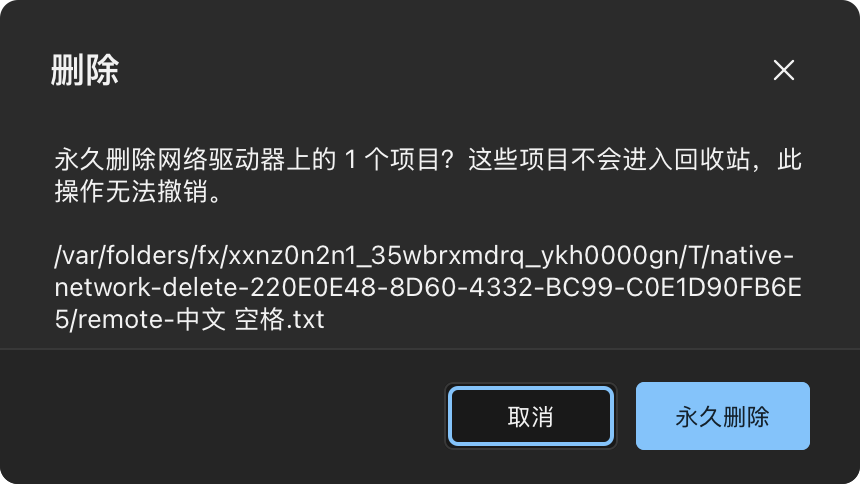
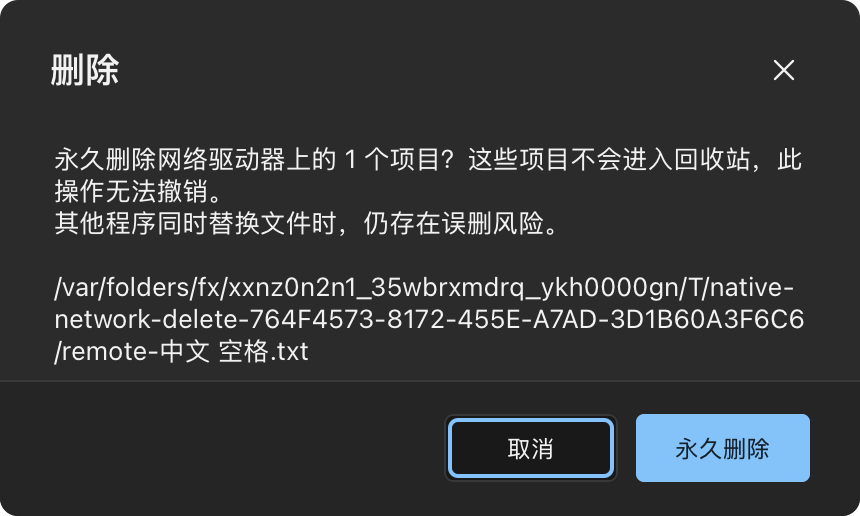
docs(network): document deletion limits and residual race

diff --git a/docs/NETWORK_DELETION_SAFETY.md b/docs/NETWORK_DELETION_SAFETY.md
@@ -1,0 +1,48 @@
+# 网络删除安全修复与边界
+
+日期：2026-10-25。针对 PR #30 的 `a1d4e04` 后续修复。所有测试只使用本地临时夹具，不操作真实 NAS。
+
+## 已实现的保护
+
+- 删除入口对全部条目先准备，再展示确认或调用回收站。父目录使用 `realpath` 解析后打开 FD，最终条目使用 `fstatat(..., AT_SYMLINK_NOFOLLOW)`；分类来自实际父目录 FD 的文件系统标志。缓存挂载路径匹配仅作菜单提示，不能决定操作。
+- 分类或准备失败时整个批次停止，不把未知状态当作本地回收。普通本地条目也绑定父目录、条目和 FSID，系统回收调用前再次复核，传入已解析父目录下的实际路径。
+- `lstat`、`openat`、`fstat`、`fstatfs`、目录枚举和 `unlinkat` 的原始错误保留在错误链中；只有实际身份、清单或挂载不一致使用 `ESTALE`。未知准备失败不再按本地路径猜测隐私授权。
+- 网络清单记录名称、身份、mode、size、mtime/ctime 等元数据；先完整复核清单，再执行第一次删除。确认后已新增、替换或修改的节点会导致停止。执行仅遍历确认过的名称；执行期间新增的条目不被纳入删除，目录保留并报告部分失败。
+- 失败返回已成功 `unlinkat` 的条目数和根条目是否删除。零变更失败保留 redo；真实永久删除（包括删除子项后失败）清空 redo。只消费实际移除根条目的选择及剪贴板记录。
+- 不跟随最终符号链接，不跨不同设备/FSID 的子挂载，不 chmod、强制重试、生成备份或临时隔离目录。权限变化只由临时夹具用于故障注入。
+
+## 资源和性能
+
+- 每批最多 64 个顶层条目；整个准备批次最多 50,000 个清单节点和 16 MiB 累计路径 UTF-8 字节，最大递归深度 128。
+- 准备、完整复核和执行各受合作式 60 秒预算及任务取消检查约束。预算不能中断已经阻塞在内核/服务器中的单次系统调用，不承诺硬超时。
+- 超限明确停止，不退化为无清单递归。准备和预检超限不会先删除文件；执行阶段的失败会报告已完成数量。
+- 清单只读取元数据，不读取/哈希文件内容。每个目录作固定次数的成员读取，不在每个子项删除前反复全量枚举同一大目录。FD 在失败时释放并设置 close-on-exec；深度与批次限制也用于约束 FD 数量。
+
+## 验证接口
+
+普通构建没有可注入网络分类器的构造器、`PreparedDeletion.fixtures` 或 `auditHook`。只有 `build.py --validation` 及网络核心夹具启用 `EXPLORER_DELETION_TESTS`；夹具接口另外限定随机命名的临时根、源的实际父路径范围，并强制检查实际 FD 为本地文件系统。
+
+`check-deletion-api.py` 在未定义验证宏时分别引用这些入口，要求编译拒绝。它验证编译边界，不把 SPI 或注释当作安全隔离。
+
+## 明确保留的限制
+
+**没有消除最终 `fstatat → unlinkat` 之间的竞态。** POSIX `unlinkat` 没有“仅当 inode 仍匹配才删除”的条件参数。即使前面每次检查均成功，其他客户端仍可能在最后检查之后替换同名条目。现有实现不能保证这种情况下替换对象不被删除。
+
+网络确认会简短显示并发替换误删风险。验证版使用最后检查后的专用钩子，确定性复现实际删除引擎中的该窗口；该用例标记 `KNOWN LIMIT`，通过代表成功复现风险，绝不代表获得原子保证。钩子不进入普通构建。
+
+清单也不是文件系统快照或事务：扫描是分时读取，执行期间变化可能在已经删除部分确认节点之后才被发现。数据在原 inode 内变化且服务器没有反映到可见元数据时，也不能视作已获得内容版本保证。本地系统回收使用路径接口，复核与系统调用同样不是一个原子操作。
+
+没有引入未经真实 SMB 验证的临时重命名、隔离目录或自动回滚。这些方案若后续采用，必须单独证明排他性、身份验证、恢复路径、断线及取消行为。维护者应在明确接受剩余并发风险后决定是否合并；若不接受，应停用网络永久删除入口，而不是把当前实现宣传为完全安全。
+
+## 验收记录
+
+- 验证构建成功，深度严格签名校验通过；未安装到 Applications。
+- 普通 release 可执行文件另行成功构建，符号检查确认夹具入口和竞态钩子不存在；`check-deletion-api.py` 另外用普通编译条件验证三个禁止入口均被编译器拒绝。
+- 网络核心专项 41 条断言通过，其中包括一个明确标记 `KNOWN LIMIT` 的最终替换竞态复现。这个数目不等于 41 条安全保证，更不代表最终竞态已解决。
+- 网络 AppKit 专项 28 项通过，包含真实 redo 分支的零变更/部分变更区分、未知分类不回收、按父 FD 分类的本地别名，以及确认后新增条目保护。
+- 完整 AppKit 报告 `passed: true`、641 条结果、`fixturePreserved: true`；唯一环境跳过为缺少 `svn` / `svnadmin` 的 SVN UI，不冒充该项实测通过。
+- `python3 -I native/scripts/check-core.py` 全量 14 组检查全部成功退出，另含普通构建的 3 项 API 编译边界检查；没有用先前的部分分组结果代替全量结果。
+- 英文/繁中文案 589 条检查通过，`git diff --check` 通过。
+- 最终回归保留错误码和路径断言，按解析后的等价路径比较 macOS `/var` 与 `/private/var`；没有删掉权限测试或放宽 errno 检查。
+
+真实 SMB FSID 切换、服务器缓存/并发客户端行为及 macOS 13 实机仍未在本轮验证，不由本地分类变化、深目录和竞态夹具替代。本轮没有改动真实 NAS，也没有生成 NAS 隔离或备份残留。

diff --git a/native/README.md b/native/README.md
@@ -52,7 +52,7 @@ open 'native/output/validation/Mac Explorer.app'
 
 ## 文件安全边界
 
-实际文件操作会执行；本地删除进入系统回收站。网络卷使用不可关闭的永久删除确认，默认聚焦取消；不会进入 Mac 回收站且不可撤销。混合选择分别显示网络/本地项目数量，确认前只读取元数据，不创建副本或备份。准备与删除绑定条目、父目录和挂载身份；不跟随符号链接、不跨子挂载、不修改权限或强制重试；错误报告部分内容可能已删除。清空回收站也是单独确认的永久操作。
+实际文件操作会执行；本地删除进入系统回收站。网络卷使用不可关闭的永久删除确认，默认聚焦取消；不会进入 Mac 回收站且不可撤销。混合选择分别显示网络/本地项目数量，确认前只读取元数据，不创建副本或备份。确认前准备有上限的元数据清单，删除前复核条目、父目录和挂载身份；不跟随符号链接、不跨子挂载、不修改权限或强制重试；错误报告实际已删除条目数。最终检查与删除之间仍有并发替换风险。清空回收站也是单独确认的永久操作。
 
 - 新建、复制和移动拒绝覆盖现有目标，包括断裂符号链接；同目录复制编号，同目录移动为空操作，目录不能转入自己或后代。
 - 系统根、系统目录和当前用户主目录作为修改源时拒绝重命名、移动或删除；普通复制保留。用户创建的符号链接只操作链接本身。
@@ -130,5 +130,7 @@ Electron 对照入口需要已安装依赖并构建；`EXPLORER_REFERENCE_ROOT` 
 设置中的“网络传输”可启用服务端复制。适用的 SMB 跨共享操作使用独立登录，支持可选钥匙串保存、分块进度、取消及安全回退；主数据复制完成后继续原有日期和权限验证，再处理移动的来源。不同端点、账号、别名、子目录挂载或无法绑定文件身份时使用普通传输。默认要求签名和 SMB3 加密，可在登录框调整加密要求。
 
 依赖从 `Vendor/libsmb2/` 固定源码构建，许可及来源随应用提供。独立回环协议检查为 `scripts/check-smb-server-copy.py`，测试依赖见 `scripts/smb-test-requirements.txt`。已完成的隔离检查及真实 NAS 验收边界见 [服务端传输记录](../docs/SERVER_SIDE_TRANSFER.md)。
+
+网络删除的确认清单、资源限制和剩余竞态见 [安全边界](../docs/NETWORK_DELETION_SAFETY.md)。
 
 本轮 Windows 工作流补齐范围及属性写入后续计划见 [文件工作流整理](../docs/FILE_WORKFLOW_PARITY.md)。

diff --git a/docs/FILE_WORKFLOW_PARITY.md b/docs/FILE_WORKFLOW_PARITY.md
@@ -2,6 +2,8 @@
 
 日期：2026-10-23。基于导航修复提交 `71569a6` 整理的文件工作流批次，与导航、Finder 收藏导入及会话恢复设置一并更新至 PR #30（`codex/finder-servers-fresh-launch`）。本次只交付源码和 PR，不安装到 Applications，不操作真实 NAS 文件。
 
+2026-10-25 的网络删除后续修复以 [安全边界与验收](NETWORK_DELETION_SAFETY.md) 为准；下方 634 条结果属于此前版本，不代替后续修复验收。
+
 ## 本轮实现范围
 
 | 项目 | 本轮行为 | 边界 |
